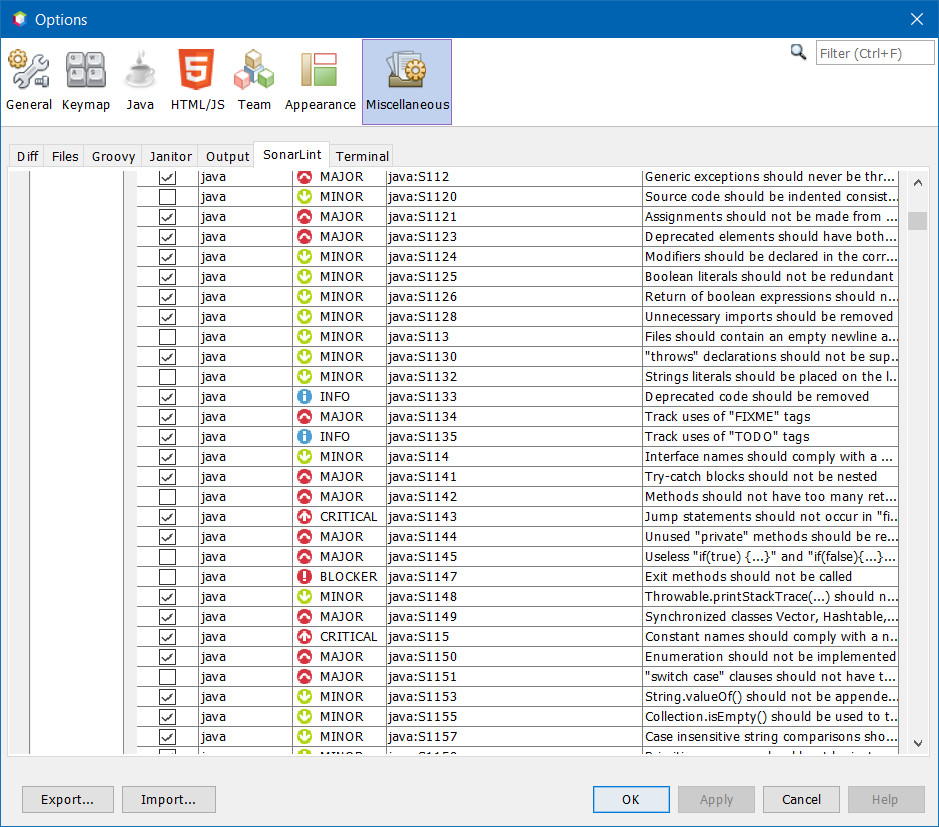
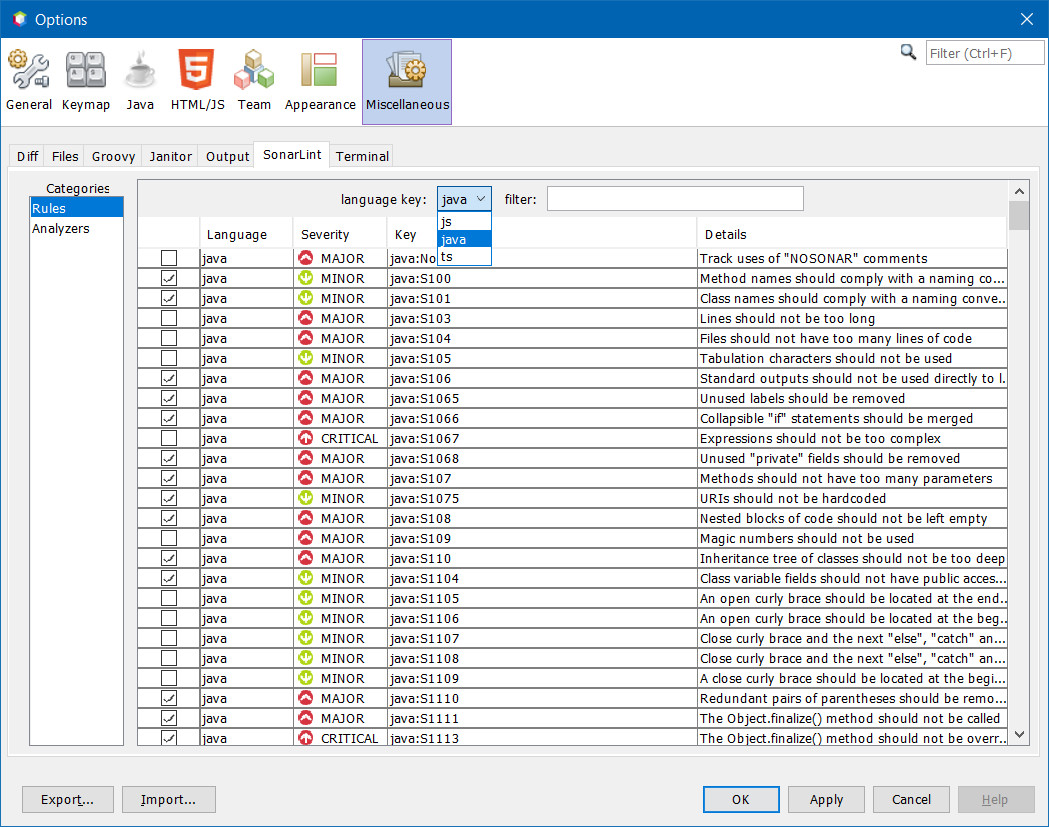
Add filters on rules list
- Filter on Option panel
- Filter on Rule details panel

diff --git a/src/main/java/fr/philippefichet/sonarlint/netbeans/SonarLintPanel.java b/src/main/java/fr/philippefichet/sonarlint/netbeans/SonarLintPanel.java
@@ -21,24 +21,28 @@ package fr.philippefichet.sonarlint.netbeans;
 
 import java.awt.BorderLayout;
 import java.awt.Component;
+import java.awt.FlowLayout;
+import java.awt.event.KeyAdapter;
+import java.awt.event.KeyEvent;
 import java.util.ArrayList;
 import java.util.Collection;
 import java.util.HashMap;
 import java.util.List;
 import java.util.Map;
 import java.util.Optional;
-import java.util.stream.Collectors;
 import javax.swing.BoxLayout;
 import javax.swing.ImageIcon;
+import javax.swing.JComboBox;
 import javax.swing.JLabel;
 import javax.swing.JPanel;
 import javax.swing.JProgressBar;
+import javax.swing.JSeparator;
 import javax.swing.JTable;
+import javax.swing.JTextField;
 import javax.swing.table.DefaultTableCellRenderer;
 import javax.swing.table.DefaultTableModel;
 import javax.swing.table.TableCellRenderer;
 import org.openide.util.Lookup;
-import org.sonarsource.sonarlint.core.client.api.common.RuleDetails;
 import org.sonarsource.sonarlint.core.client.api.common.RuleKey;
 import org.sonarsource.sonarlint.core.client.api.connected.LoadedAnalyzer;
 
@@ -49,17 +53,7 @@ public final class SonarLintPanel extends javax.swing.JPanel {
     private final Map<RuleKey, Boolean> ruleKeyChanged = new HashMap<>();
     private DefaultTableModel analyzerDefaultTableModel = new DefaultTableModel();
 
-    private DefaultTableModel rulesDefaultTableModel = new DefaultTableModel() {
-        @Override
-        public boolean isCellEditable(int row, int column) {
-            return column < 1;
-        }
-
-        @Override
-        public Class<?> getColumnClass(int columnIndex) {
-            return columnIndex == 0 ? Boolean.class : String.class;
-        }
-    };
+    private SonarLintRuleTableModel rulesDefaultTableModel = new SonarLintRuleTableModel();
 
     public SonarLintPanel(SonarLintOptionsPanelController controller) {
         this.controller = controller;
@@ -88,23 +82,7 @@ public final class SonarLintPanel extends javax.swing.JPanel {
                 });
             }
 
-            rulesDefaultTableModel.addColumn("");
-            rulesDefaultTableModel.addColumn("Language");
-            rulesDefaultTableModel.addColumn("Severity");
-            rulesDefaultTableModel.addColumn("Key");
-            rulesDefaultTableModel.addColumn("Details");
-            Collection<RuleDetails> allRuleDetails = engine.getAllRuleDetails();
-            allRuleDetails.stream().sorted((r1, r2) -> {
-                return r1.getKey().compareTo(r2.getKey());
-            }).map(ruleDetail -> new Object[] {
-                !engine.isExcluded(ruleDetail),
-                ruleDetail.getLanguageKey(),
-                ruleDetail.getSeverity(),
-                ruleDetail.getKey(),
-                ruleDetail.getName()}
-            ).collect(Collectors.toList()).forEach(rulesDefaultTableModel::addRow);
-
-            rulesDefaultTableModel.addTableModelListener((e) -> {
+            rulesDefaultTableModel.addTableModelListener(e -> {
                 controller.changed();
                 int column = e.getColumn();
 
@@ -120,7 +98,7 @@ public final class SonarLintPanel extends javax.swing.JPanel {
 
             categoriesList.addListSelectionListener((e) -> {
                 if ("Rules".equals(categoriesList.getSelectedValue())) {
-                    initRulesPanel();
+                    initRulesPanel(engine);
                 }
                 if ("Analyzers".equals(categoriesList.getSelectedValue())) {
                     initAnalyzersPanel();
@@ -130,7 +108,7 @@ public final class SonarLintPanel extends javax.swing.JPanel {
             });
 
             // Rule panel by default
-            initRulesPanel();
+            initRulesPanel(engine);
             optionPanel.revalidate();
             optionPanel.repaint();
         });
@@ -144,8 +122,35 @@ public final class SonarLintPanel extends javax.swing.JPanel {
         optionPanel.add(analyzersTable, BorderLayout.CENTER);
     }
 
-    private void initRulesPanel() {
+    private void initRulesPanel(SonarLintEngine engine) {
         optionPanel.removeAll();
+        
+        JPanel languageKeyContainer = new JPanel(new FlowLayout());
+        JTextField rulesFilter = new JTextField();
+        rulesFilter.setColumns(20);
+        JComboBox<String> comboLanguageKey = new JComboBox<>();
+        engine.getAllRuleDetails().stream()
+            .map(r -> r.getLanguageKey())
+            .distinct()
+            .forEach(comboLanguageKey::addItem);
+        rulesFilter.addKeyListener(new KeyAdapter() {
+            @Override
+            public void keyReleased(KeyEvent e) {
+                rulesDefaultTableModel.setRules(engine, (String)comboLanguageKey.getSelectedItem(), rulesFilter.getText());
+            }
+        });
+        comboLanguageKey.addActionListener(
+            e ->
+            rulesDefaultTableModel.setRules(engine, (String)comboLanguageKey.getSelectedItem(), rulesFilter.getText())
+        );
+        languageKeyContainer.add(new JLabel("language key: "));
+        languageKeyContainer.add(comboLanguageKey);
+        languageKeyContainer.add(new JSeparator());
+        languageKeyContainer.add(new JLabel("filter: "));
+        languageKeyContainer.add(rulesFilter);
+        
+        JPanel northContainer = new JPanel();
+        northContainer.setLayout(new BoxLayout(northContainer, BoxLayout.Y_AXIS));
         JTable rulesTable = new JTable(rulesDefaultTableModel);
         rulesTable.getColumnModel().getColumn(0).setMaxWidth(50);
         rulesTable.getColumnModel().getColumn(1).setMaxWidth(250);
@@ -162,7 +167,11 @@ public final class SonarLintPanel extends javax.swing.JPanel {
                 return defaultTableCellRenderer.getTableCellRendererComponent(table, value, isSelected, hasFocus, row, column);
             }
         });
-        optionPanel.add(rulesTable.getTableHeader(), BorderLayout.NORTH);
+
+        rulesDefaultTableModel.setRules(engine, (String)comboLanguageKey.getSelectedItem(), rulesFilter.getText());
+        northContainer.add(languageKeyContainer);
+        northContainer.add(rulesTable.getTableHeader());
+        optionPanel.add(northContainer, BorderLayout.NORTH);
         optionPanel.add(rulesTable, BorderLayout.CENTER);
     }
 
@@ -178,8 +187,10 @@ public final class SonarLintPanel extends javax.swing.JPanel {
         categoriesLabel = new javax.swing.JLabel();
         categoriesScrollPanel = new javax.swing.JScrollPane();
         categoriesList = new javax.swing.JList<>();
+        optionScrollPane = new javax.swing.JScrollPane();
         optionPanel = new javax.swing.JPanel();
 
+        setPreferredSize(getPreferredSize());
         setLayout(new java.awt.BorderLayout(10, 0));
 
         categoriesPanel.setLayout(new javax.swing.BoxLayout(categoriesPanel, javax.swing.BoxLayout.PAGE_AXIS));
@@ -192,15 +203,21 @@ public final class SonarLintPanel extends javax.swing.JPanel {
             public int getSize() { return strings.length; }
             public String getElementAt(int i) { return strings[i]; }
         });
+        categoriesList.setSelectionMode(javax.swing.ListSelectionModel.SINGLE_SELECTION);
+        categoriesList.setSelectedIndex(0);
         categoriesScrollPanel.setViewportView(categoriesList);
 
         categoriesPanel.add(categoriesScrollPanel);
 
         add(categoriesPanel, java.awt.BorderLayout.WEST);
 
+        optionScrollPane.setViewportView(null);
+
         optionPanel.setCursor(new java.awt.Cursor(java.awt.Cursor.DEFAULT_CURSOR));
         optionPanel.setLayout(new java.awt.BorderLayout());
-        add(optionPanel, java.awt.BorderLayout.CENTER);
+        optionScrollPane.setViewportView(optionPanel);
+
+        add(optionScrollPane, java.awt.BorderLayout.CENTER);
     }// </editor-fold>//GEN-END:initComponents
 
     void load() {
@@ -235,10 +252,11 @@ public final class SonarLintPanel extends javax.swing.JPanel {
     }
 
     // Variables declaration - do not modify//GEN-BEGIN:variables
-    private javax.swing.JLabel categoriesLabel;
-    private javax.swing.JList<String> categoriesList;
-    private javax.swing.JPanel categoriesPanel;
-    private javax.swing.JScrollPane categoriesScrollPanel;
-    private javax.swing.JPanel optionPanel;
+    javax.swing.JLabel categoriesLabel;
+    javax.swing.JList<String> categoriesList;
+    javax.swing.JPanel categoriesPanel;
+    javax.swing.JScrollPane categoriesScrollPanel;
+    javax.swing.JPanel optionPanel;
+    javax.swing.JScrollPane optionScrollPane;
     // End of variables declaration//GEN-END:variables
 }

diff --git a/src/main/java/fr/philippefichet/sonarlint/netbeans/SonarLintRuleTableModel.java b/src/main/java/fr/philippefichet/sonarlint/netbeans/SonarLintRuleTableModel.java
@@ -1,0 +1,76 @@
+/*
+ * sonarlint4netbeans: SonarLint integration for Apache Netbeans
+ * Copyright (C) 2020 Philippe FICHET.
+ *
+ * This library is free software; you can redistribute it and/or
+ * modify it under the terms of the GNU Lesser General Public
+ * License as published by the Free Software Foundation; either
+ * version 2.1 of the License, or (at your option) any later version.
+ *
+ * This library is distributed in the hope that it will be useful,
+ * but WITHOUT ANY WARRANTY; without even the implied warranty of
+ * MERCHANTABILITY or FITNESS FOR A PARTICULAR PURPOSE.  See the GNU
+ * Lesser General Public License for more details.
+ *
+ * You should have received a copy of the GNU Lesser General Public
+ * License along with this library; if not, write to the Free Software
+ * Foundation, Inc., 51 Franklin Street, Fifth Floor, Boston,
+ * MA 02110-1301  USA
+ */
+package fr.philippefichet.sonarlint.netbeans;
+
+import java.util.Collection;
+import java.util.stream.Collectors;
+import javax.swing.table.DefaultTableModel;
+import org.sonarsource.sonarlint.core.client.api.common.RuleDetails;
+
+
+/**
+ *
+ * @author FICHET Philippe <philippe.fichet@laposte.net>
+ */
+public class SonarLintRuleTableModel extends DefaultTableModel {
+
+    public SonarLintRuleTableModel() {
+        init();
+    }
+    
+    private void init() {
+        addColumn("");
+        addColumn("Language");
+        addColumn("Severity");
+        addColumn("Key");
+        addColumn("Details");
+    }
+
+    public void setRules(SonarLintEngine engine, String languagekey, String ruleFilter) {
+        while(getRowCount() > 0) {
+            removeRow(0);
+        }
+        Collection<RuleDetails> allRuleDetails = engine.getAllRuleDetails();
+        allRuleDetails.stream()
+        .filter(
+            SonarLintUtils.FilterBy.languageKey(languagekey)
+            .and(SonarLintUtils.FilterBy.keyAndName(ruleFilter))
+        )
+        .sorted((r1, r2) -> 
+            r1.getKey().compareTo(r2.getKey())
+        ).map(ruleDetail -> new Object[] {
+            !engine.isExcluded(ruleDetail),
+            ruleDetail.getLanguageKey(),
+            ruleDetail.getSeverity(),
+            ruleDetail.getKey(),
+            ruleDetail.getName()}
+        ).collect(Collectors.toList()).forEach(this::addRow);
+    }
+    
+    @Override
+    public boolean isCellEditable(int row, int column) {
+        return column < 1;
+    }
+
+    @Override
+    public Class<?> getColumnClass(int columnIndex) {
+        return columnIndex == 0 ? Boolean.class : String.class;
+    }
+}

diff --git a/src/main/java/fr/philippefichet/sonarlint/netbeans/SonarLintUtils.java b/src/main/java/fr/philippefichet/sonarlint/netbeans/SonarLintUtils.java
@@ -29,6 +29,7 @@ import java.util.Collection;
 import java.util.Collections;
 import java.util.List;
 import java.util.Optional;
+import java.util.function.Predicate;
 import java.util.logging.Logger;
 import javax.swing.ImageIcon;
 import org.netbeans.api.project.FileOwnerQuery;
@@ -54,7 +55,34 @@ public final class SonarLintUtils {
 
     private SonarLintUtils() {
     }
-    
+
+    public static class FilterBy {
+
+        private FilterBy() {
+        }
+
+       /**
+         * Create a predicat to filter rule detail by language key
+         * @param languageKey language key to filter
+         * @return Predicat to filter rule detail by language key
+         */
+        public static Predicate<RuleDetails> languageKey(String languageKey) {
+            return ruleDetail -> ruleDetail.getLanguageKey().equals(languageKey);
+        }
+
+        /**
+         * Create a predicat to filter rule detail by key or name
+         * @param keyOrName key or name to filter
+         * @return Predicat to filter rule detail by key or name
+         */
+        public static Predicate<RuleDetails> keyAndName(String keyOrName) {
+            String ruleFilterLowerCase = keyOrName.toLowerCase();
+            return ruleDetail -> keyOrName.isEmpty()
+                || ruleDetail.getKey().toLowerCase().contains(ruleFilterLowerCase)
+                || ruleDetail.getName().toLowerCase().contains(ruleFilterLowerCase);
+        }
+    }
+
     public static Optional<ImageIcon> toImageIcon(String severity)
     {
         URL resource = SonarLintUtils.class.getClassLoader().getResource("fr/philippefichet/sonarlint/netbeans/resources/sonarlint-" + severity.toLowerCase() + ".png");
@@ -63,7 +91,7 @@ public final class SonarLintUtils {
         }
         return Optional.of(new ImageIcon(resource, severity));
     }
-    
+
     public static String toURL(RuleDetails ruleDetails)
     {
         String[] keySplit = ruleDetails.getKey().split(":");

diff --git a/src/main/java/fr/philippefichet/sonarlint/netbeans/SonarRuleDetailsTopComponent.java b/src/main/java/fr/philippefichet/sonarlint/netbeans/SonarRuleDetailsTopComponent.java
@@ -138,6 +138,7 @@ public final class SonarRuleDetailsTopComponent extends TopComponent {
             }
         });
         initListAllRuleDetails();
+        sonarLintAllRules.setSelectionMode(javax.swing.ListSelectionModel.SINGLE_SELECTION);
         sonarLintAllRules.addListSelectionListener(new javax.swing.event.ListSelectionListener() {
             public void valueChanged(javax.swing.event.ListSelectionEvent evt) {
                 sonarLintAllRulesValueChanged(evt);
@@ -175,7 +176,7 @@ public final class SonarRuleDetailsTopComponent extends TopComponent {
             DefaultListModel<String> model = new DefaultListModel<>();
             Collection<RuleDetails> rules = engine.getAllRuleDetails();
             rules.stream().sorted((r1, r2) -> r1.getKey().compareTo(r2.getKey()))
-            .filter(rule -> ruleKeyFilter.isEmpty() || rule.getKey().toLowerCase().contains(ruleKeyFilter))
+            .filter(SonarLintUtils.FilterBy.keyAndName(ruleKeyFilter))
             .forEach(rule -> model.addElement(rule.getKey()));
             sonarLintAllRules.setModel(model);
             sonarLintAllRules.updateUI();
